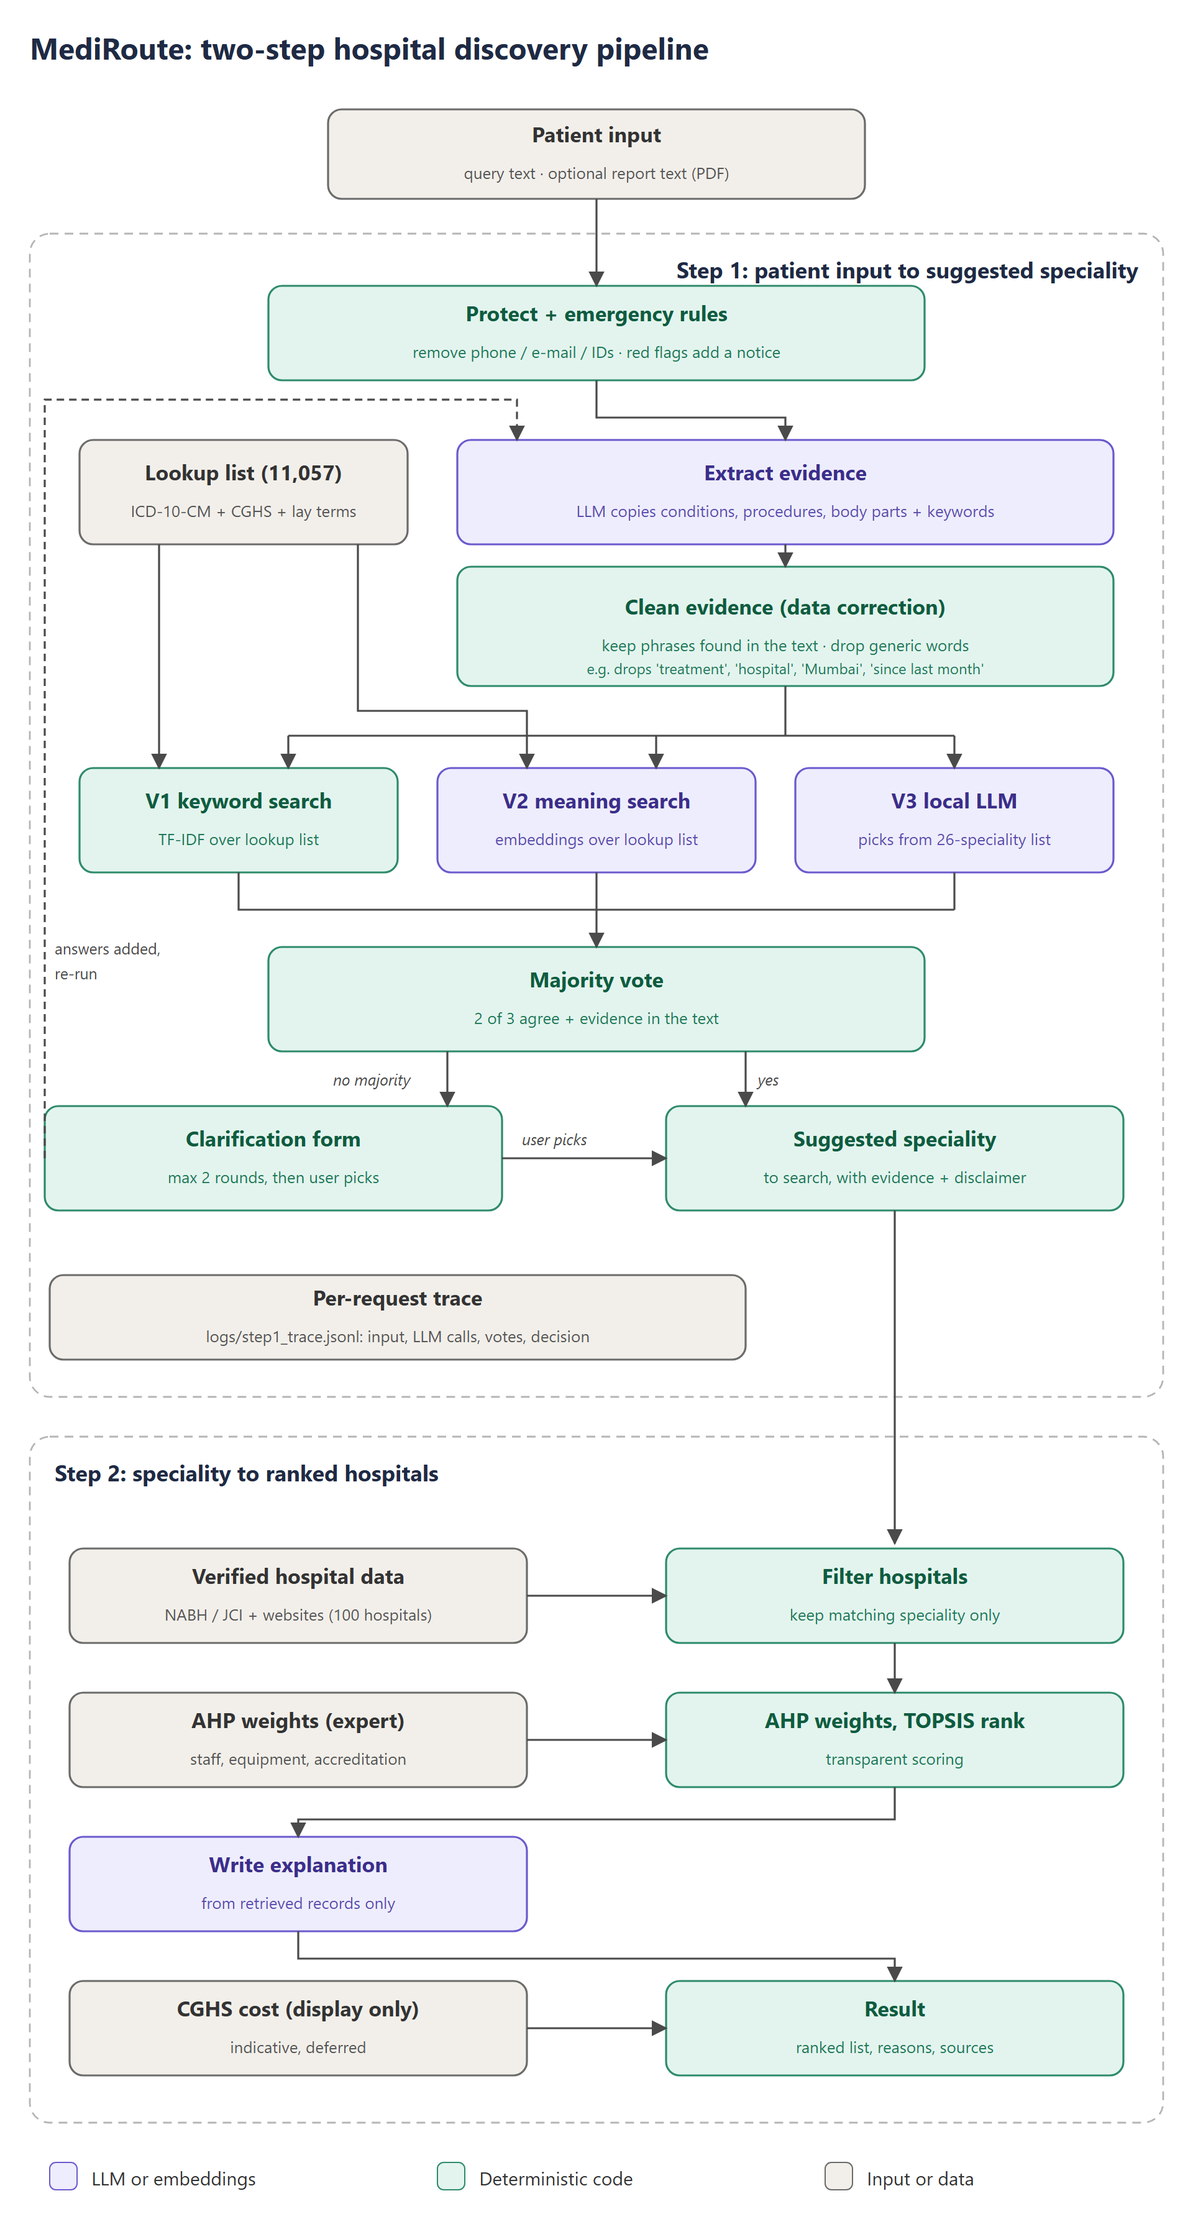
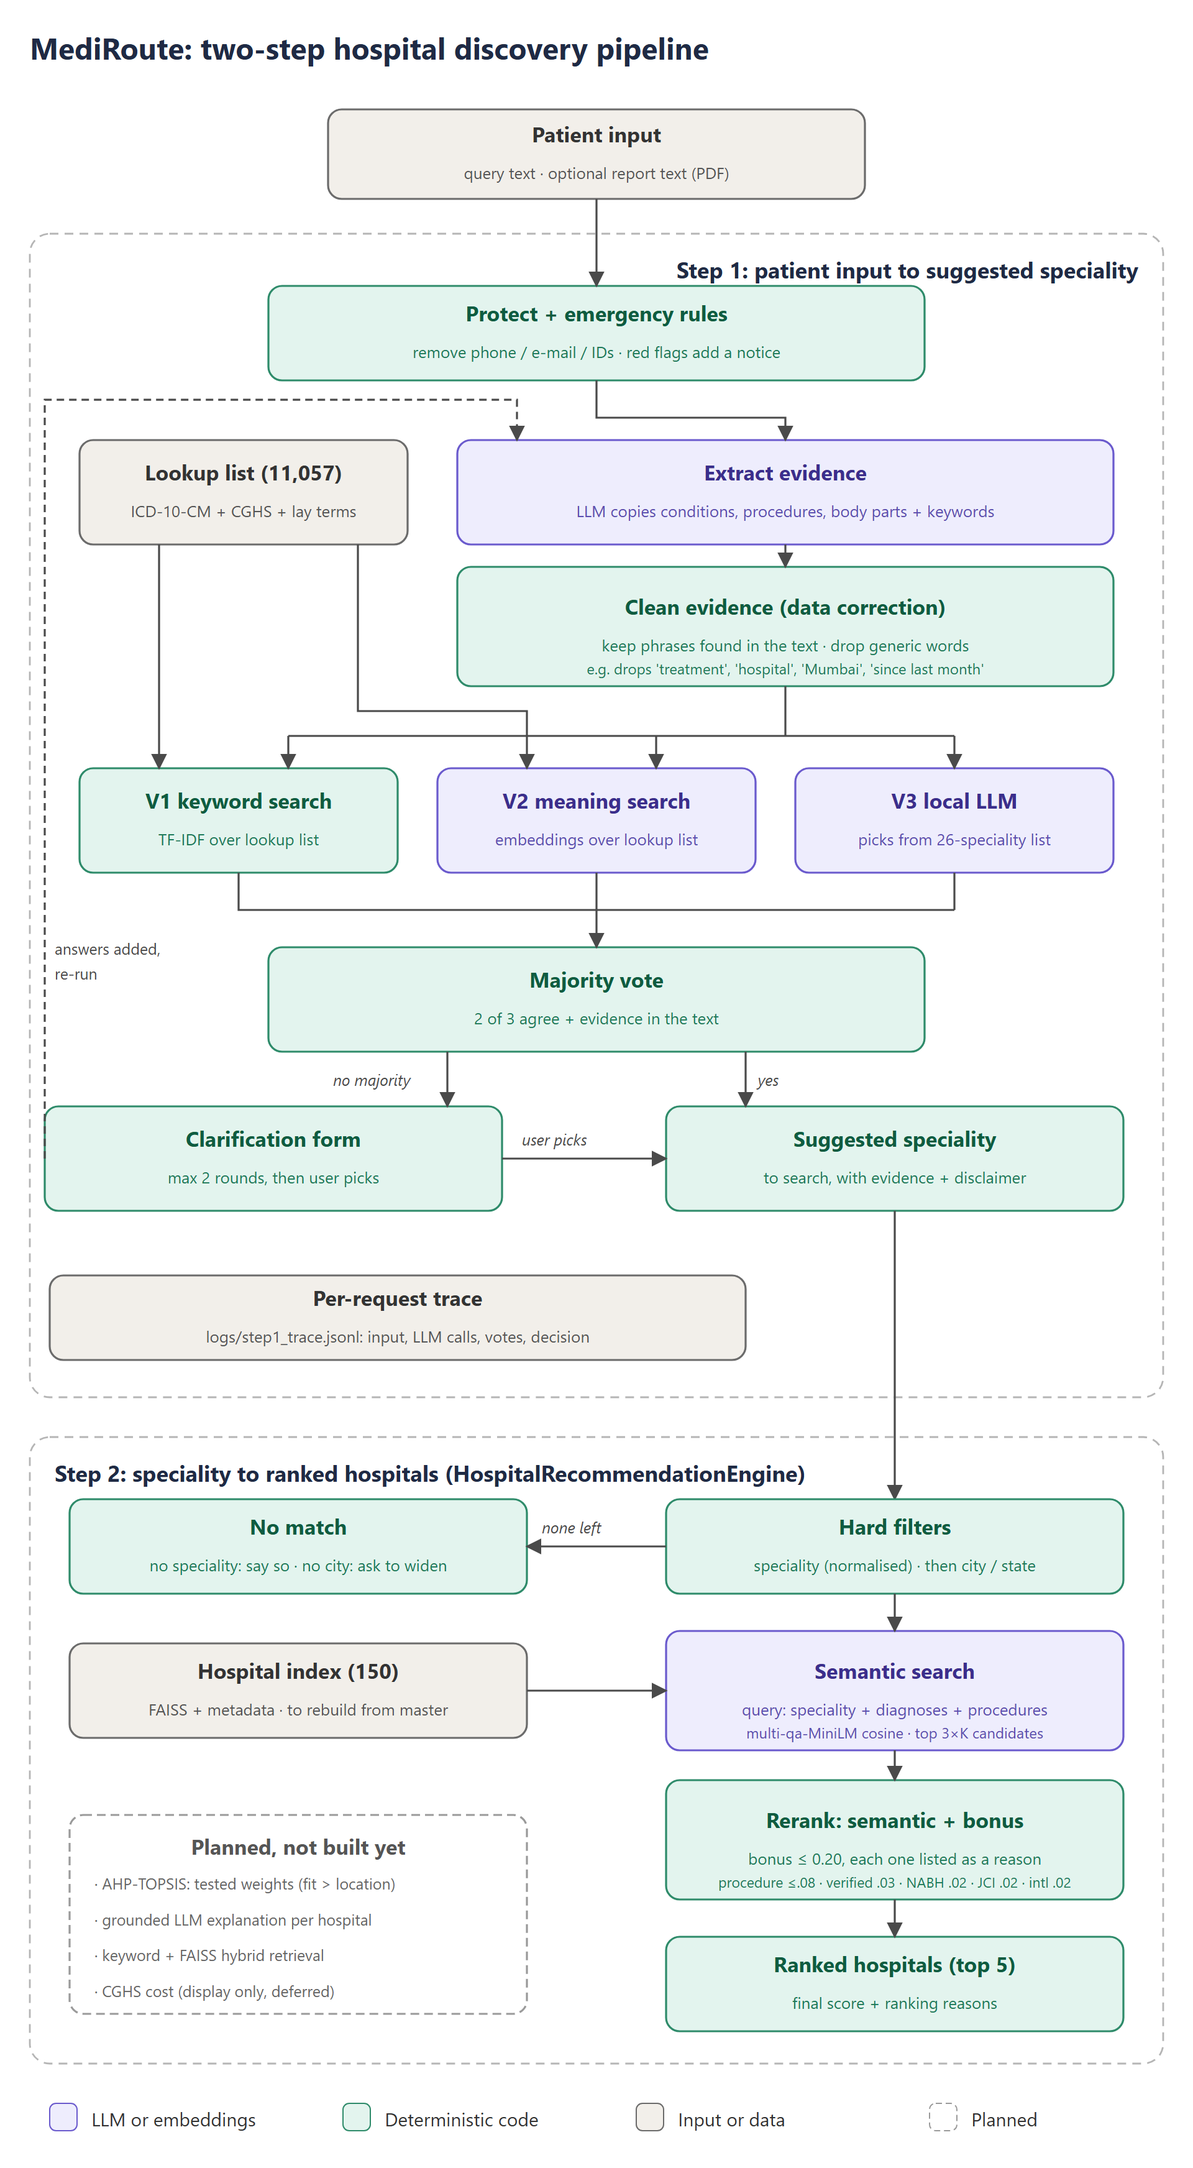
Architecture: draw Step 2 as built; update progress and tracker
- Diagram Step 2 now shows what HospitalRecommendationEngine runs: hard
  filters (speciality, city/state, no-match exits) -> FAISS semantic search
  over the filtered hospitals (3xK) -> semantic + rule bonus (<= 0.20) ->
  top 5 with reasons. AHP-TOPSIS, grounded explanation, hybrid keyword
  retrieval and CGHS cost are drawn as planned (dashed).
- README Step 2 table matches the code, with known gaps.
- PROJECT_TRACKER: progress summary (10 Nov 2026); task states updated
  (keyword retriever not wired, interim reranker, 100-hospital master,
  gold sets, eval script still on old routes, admin page).

diff --git a/docs/architecture/make_architecture_diagram.py b/docs/architecture/make_architecture_diagram.py
@@ -14,12 +14,13 @@ from pathlib import Path
 
 HERE = Path(__file__).resolve().parent
 U = 80  # pixels per layout unit
-W, H = 12.0, 22.5
+W, H = 12.0, 21.8
 
 STYLE = {  # fill, border, title colour, subtitle colour
     "llm": ("#EEEDFD", "#6A5ACD", "#3B2E8C", "#5B4DB0"),
     "code": ("#E3F4EE", "#2E8B6A", "#0F5C40", "#1F7A58"),
     "data": ("#F2EFEA", "#6B6B6B", "#333333", "#555555"),
+    "planned": ("#FFFFFF", "#9A9A9A", "#555555", "#777777"),
 }
 parts: list[str] = []
 
@@ -32,8 +33,9 @@ def box(cx, cy, w, h, title, sub, kind):
     fill, edge, tcol, scol = STYLE[kind]
     x, y = cx - w / 2, cy - h / 2
     parts.append(f'<rect x="{px(x)}" y="{px(y)}" width="{px(w)}" height="{px(h)}" rx="11" '
-                 f'fill="{fill}" stroke="{edge}" stroke-width="1.6"/>')
-    ty = cy - 0.12 if sub else cy + 0.07
+                 f'fill="{fill}" stroke="{edge}" stroke-width="1.6"'
+                 + (' stroke-dasharray="7 4"' if kind == "planned" else "") + '/>')
+    ty = cy - 0.12 if sub else (cy - h / 2 + 0.4 if kind == "planned" else cy + 0.07)
     parts.append(f'<text x="{px(cx)}" y="{px(ty)}" text-anchor="middle" font-size="17" font-weight="700" '
                  f'fill="{tcol}">{escape(title)}</text>')
     if sub:
@@ -123,31 +125,48 @@ text(0.55, 9.85, "re-run", size=12.5, colour="#4A4A4A")
 
 box(4.0, 13.25, 7.0, 0.85, "Per-request trace", "logs/step1_trace.jsonl: input, LLM calls, votes, decision", "data")
 
-# ------------------------------------------------------------------ Step 2
-D = 1.3  # Step 2 moved down to make room for the cleaning step
-container(0.3, 13.15 + D, 11.7, 20.05 + D, "Step 2: speciality to ranked hospitals", anchor="start")
-arrow((9.0, 12.175), (9.0, 14.225 + D))
-box(3.0, 14.75 + D, 4.6, 0.95, "Verified hospital data", "NABH / JCI + websites (100 hospitals)", "data")
-box(9.0, 14.75 + D, 4.6, 0.95, "Filter hospitals", "keep matching speciality only", "code")
-arrow((5.3, 14.75 + D), (6.7, 14.75 + D))
-box(3.0, 16.2 + D, 4.6, 0.95, "AHP weights (expert)", "staff, equipment, accreditation", "data")
-box(9.0, 16.2 + D, 4.6, 0.95, "AHP weights, TOPSIS rank", "transparent scoring", "code")
-arrow((5.3, 16.2 + D), (6.7, 16.2 + D))
-arrow((9.0, 15.225 + D), (9.0, 15.725 + D))
-box(3.0, 17.65 + D, 4.6, 0.95, "Write explanation", "from retrieved records only", "llm")
-arrow((9.0, 16.675 + D), (9.0, 17.0 + D), (3.0, 17.0 + D), (3.0, 17.175 + D))
-box(3.0, 19.1 + D, 4.6, 0.95, "CGHS cost (display only)", "indicative, deferred", "data")
-box(9.0, 19.1 + D, 4.6, 0.95, "Result", "ranked list, reasons, sources", "code")
-arrow((3.0, 18.125 + D), (3.0, 18.4 + D), (9.0, 18.4 + D), (9.0, 18.625 + D))
-arrow((5.3, 19.1 + D), (6.7, 19.1 + D))
+# ------------------------------------------------------------------ Step 2 (as built: hospital_recommendation/engine.py)
+container(0.3, 14.45, 11.7, 20.75, "Step 2: speciality to ranked hospitals (HospitalRecommendationEngine)", anchor="start")
+arrow((9.0, 12.175), (9.0, 15.075))
+
+# R1: hard filters, with the two no-match exits
+box(9.0, 15.55, 4.6, 0.95, "Hard filters", "speciality (normalised) · then city / state", "code")
+box(3.0, 15.55, 4.6, 0.95, "No match", "no speciality: say so · no city: ask to widen", "code")
+arrow((6.7, 15.55), (5.3, 15.55), label="none left", label_at=(5.45, 15.42))
+
+# R2: semantic search over the filtered hospitals only
+box(3.0, 17.0, 4.6, 0.95, "Hospital index (150)", "FAISS + metadata · to rebuild from master", "data")
+box(9.0, 17.0, 4.6, 1.2, "Semantic search", "query: speciality + diagnoses + procedures", "llm")
+text(9.0, 17.48, "multi-qa-MiniLM cosine · top 3×K candidates", size=12, anchor="middle", colour="#5B4DB0")
+arrow((9.0, 16.025), (9.0, 16.4))
+arrow((5.3, 17.0), (6.7, 17.0))
+
+# R3: transparent rule bonus
+box(9.0, 18.5, 4.6, 1.2, "Rerank: semantic + bonus", "bonus ≤ 0.20, each one listed as a reason", "code")
+text(9.0, 18.98, "procedure ≤.08 · verified .03 · NABH .02 · JCI .02 · intl .02", size=11.5, anchor="middle",
+     colour="#1F7A58")
+arrow((9.0, 17.6), (9.0, 17.9))
+
+# R4: result
+box(9.0, 19.95, 4.6, 0.95, "Ranked hospitals (top 5)", "final score + ranking reasons", "code")
+arrow((9.0, 19.1), (9.0, 19.475))
+
+# planned, not built (TA: test weights, ground explanations)
+box(3.0, 19.25, 4.6, 2.0, "Planned, not built yet", "", "planned")
+for i, item in enumerate(["AHP-TOPSIS: tested weights (fit > location)",
+                          "grounded LLM explanation per hospital",
+                          "keyword + FAISS hybrid retrieval",
+                          "CGHS cost (display only, deferred)"]):
+    text(0.95, 19.0 + i * 0.36, "· " + item, size=12.5, colour="#666666")
 
 # ------------------------------------------------------------------ legend
 for i, (kind, label) in enumerate([("llm", "LLM or embeddings"), ("code", "Deterministic code"),
-                                   ("data", "Input or data")]):
+                                   ("data", "Input or data"), ("planned", "Planned")]):
     fill, edge, _, _ = STYLE[kind]
-    x = 0.5 + i * 3.9
-    parts.append(f'<rect x="{px(x)}" y="{px(20.45 + D)}" width="22" height="22" rx="5" fill="{fill}" stroke="{edge}"/>')
-    text(x + 0.42, 20.68 + D, label, size=15, colour="#333333")
+    x = 0.5 + i * 2.95
+    dash = ' stroke-dasharray="5 3"' if kind == "planned" else ""
+    parts.append(f'<rect x="{px(x)}" y="{px(21.15)}" width="22" height="22" rx="5" fill="{fill}" stroke="{edge}"{dash}/>')
+    text(x + 0.42, 21.38, label, size=15, colour="#333333")
 
 svg = (f'<svg xmlns="http://www.w3.org/2000/svg" width="{px(W)}" height="{px(H)}" viewBox="0 0 {px(W)} {px(H)}" '
        f'font-family="Inter, Segoe UI, Helvetica, Arial, sans-serif">'

diff --git a/docs/PROJECT_TRACKER.md b/docs/PROJECT_TRACKER.md
@@ -6,6 +6,19 @@ Priorities follow the TA mid-sem feedback and the capstone guidelines (see `docs
 narrow scope, a strong evaluation layer with baselines, and deployment with observability.
 Final review: **5 Dec 2026**. Owners are tentative.
 
+## Progress (10 Nov 2026)
+
+- **Step 1 is complete end to end:** voting pipeline (2 search voters + local LLM, majority + evidence),
+  clarification form, data-correction stage (generic words dropped, 473 lay terms), per-request trace
+  and an admin page. 59 tests pass; 12 Step 1 and 9 workflow API scenarios route as intended.
+- **Step 1 + Step 2 integrated** in the LangGraph workflow (`/api/patient-routing`).
+- **Step 2 runs** as filter → FAISS semantic search → rule-bonus rerank. AHP-TOPSIS, grounded
+  explanations and the hybrid keyword retriever are not built yet. It still uses the old 150-hospital
+  index, so 6 specialities have no hospitals.
+- **Data:** 100-hospital master verified against NABH, JCI and official websites (14 cities).
+- **Biggest gap vs the TA feedback: evaluation.** Gold sets exist (Step 1), but no metrics have been
+  run on the voting pipeline, no baselines, no hospital-relevance labels, no Step 2 metrics.
+
 | # | Task | What needs to be done | Owner | State |
 |---|------|-----------------------|-------|-------|
 | **Step 0: Team alignment (do this first, before starting any task below)** | | | | |
@@ -16,36 +29,36 @@ Final review: **5 Dec 2026**. Owners are tentative.
 | 3 | Specialty routing pipeline | Done: `MEDIROUTE_ROUTING_MODE` = vote (default) / rules / llm / hybrid; router built once at startup with warm-up | Pravin | Done |
 | 4 | Fix zero-shot overriding the rule result | Done: zero-shot removed from the live path; `test_blurry_vision_maps_to_ophthalmology` passes | Pravin | Done |
 | 5 | Validate the LLM's answer | Done: V3 is constrained to the speciality list (JSON-schema enum) and code rejects other names | Pravin | Done |
-| 6 | Extract condition with an LLM | Done as evidence extraction: LLM copies conditions, procedures, body parts; code keeps only phrases found in the text | Pravin | Done |
-| 7 | Map to ICD-10 | Partly: ICD-10-CM 2026 (9,314 categories) + CGHS procedures mapped to specialities in the Step 1 lookup list (draft tables, doctor review pending) | Pravin | In progress |
+| 6 | Extract condition with an LLM | Done as evidence extraction: LLM copies conditions, procedures, body parts. **Data correction:** code keeps only phrases found in the text and drops generic words (treatment, hospital, city, time) | Pravin | Done |
+| 7 | Map to ICD-10 | Partly: lookup list of 11,057 entries = ICD-10-CM 2026 (9,314 categories) + CGHS procedures (1,270) + patient lay terms (473), mapped to specialities by draft tables (doctor review pending) | Pravin | In progress |
 | 8 | Validate, else ask the user | Done: majority + evidence, else clarification form (2 rounds), then user picks; `decision` in the response | Pravin | Done |
 | 9 | One shared specialty list | Done: `data/medical_taxonomy/specialties.csv` + `common/specialties.py`, used by Step 1 | Pravin | Done |
 | **Step 2: Specialty → Ranked hospitals** | | | | |
 | 10 | Filter hospitals by specialty and location | Done: `specialty_filter.py`, filtered FAISS | Shubham | Done |
-| 11 | Hybrid retrieval (FAISS + keyword) | Done: FAISS index + TF-IDF keyword retriever | Shubham | Done |
-| 12 | AHP-TOPSIS ranking | Define criteria (specialty match, accreditation, facilities, location), derive AHP weights, implement TOPSIS in `ranking/`. Medical fit must outweigh location | Shubham | Not started |
-| 13 | Grounded LLM explanation | For each top hospital, generate a 2–3 line reason using only fields from the retrieved record. No invented facts; cite the fields used | Shubham | Not started |
+| 11 | Hybrid retrieval (FAISS + keyword) | FAISS semantic search over the filtered hospitals is live. `keyword_retriever.py` (TF-IDF) is built but **not called by the engine**, so retrieval is not hybrid yet | Shubham | In progress |
+| 12 | AHP-TOPSIS ranking | Interim: semantic score + fixed rule bonus (≤ 0.20: procedure, verified, NABH, JCI, international) in `ranking/hospital_reranker.py`. Still to do: define criteria, derive AHP weights, TOPSIS, and test the weights (medical fit must outweigh location) | Shubham | In progress |
+| 13 | Grounded LLM explanation | Not built: results show rule-based `ranking_reasons` only. For each top hospital, generate a 2–3 line reason using only fields from the retrieved record; cite the fields used | Shubham | Not started |
 | 14 | Connect Step 1 to Step 2 end to end | Done: `/api/patient-routing` workflow passes Step 1's speciality and evidence to the Step 2 engine; results page shows ranked hospitals (see docs/design/step1_step2_integration.md) | Shubham | Done |
 | **Data** | | | | |
-| 15 | 150-hospital dataset + FAISS index | Done. Rebuild the index when the new master data is final | Anand, Ravi | Done |
+| 15 | 150-hospital dataset + FAISS index | 150-hospital dataset + FAISS index in use. **Rebuild the index from the 100-hospital master** (`data/processed/master-hospital-data.csv`); add eye, ENT, skin, mental-health and O&G hospitals (0 today) | Anand, Ravi | In progress |
 | 16 | Specialty vocabulary + ICD-10 mapping | Done for v1. Extend with task 7 and task 9 | Anand, Ravi | Done |
-| 17 | JCI / NABH accreditation scraping | Finish the remaining target cities and save outputs in `data/interim/` | Anand, Ravi | In progress |
-| 18 | Verified hospital-specialty data | Verify each hospital's specialties from its official website. Add `source` and `is_synthetic` columns, and merge into the master dataset | Anand, Ravi | In progress |
+| 17 | JCI / NABH accreditation scraping | Done for 100 hospitals in 14 cities: NABH certificate, JCI listing and official website checked per hospital (`data/interim/master/`) | Anand, Ravi | Done |
+| 18 | Verified hospital-specialty data | 100 hospitals in `master-hospital-data.csv` with `source`, `verification_status` and `evidence_quality_score`. Still to do: merge into the Step 2 index (task 15) | Anand, Ravi | In progress |
 | **Evaluation (TA: critical)** | | | | |
-| 19 | Gold query set | 50+ patient queries (clear, vague, misspelled, multi-symptom) with the expected specialty. Get it reviewed by a doctor if possible | Anand, Ravi | Not started |
+| 19 | Gold query set | 50 core queries in `step1_gold_core50.csv` (diagnosis, report, procedure-only, noisy, vague, CGHS gap, emergency, paediatric; with critical details) + 84 MediRoute + 212 Gretel queries. **Doctor review pending** (`step1_gold_core50_REVIEW.md`) | Anand, Ravi | In progress |
 | 20 | Hospital-relevance labels | For each gold query, grade the candidate hospitals 0–3 for relevance. This is needed for NDCG | Anand, Ravi | Not started |
 | 21 | Baselines | Implement 3 baselines for comparison: keyword search, rule-based specialty mapping, and specialty filter only | Anand, Ravi | Not started |
-| 22 | Step 1 evaluation | Script reports specialty accuracy and top-3 accuracy for each router mode vs the rule baseline on the gold set | Anand, Ravi | Not started |
+| 22 | Step 1 evaluation | `scripts/eval_step1.py` exists but evaluates the old rules / llm / hybrid routes. Update it for the voting pipeline: accuracy, top-3, clarification rate, per-voter accuracy, vs the rule baseline | Anand, Ravi | Not started |
 | 23 | Step 2 evaluation | Script reports Precision@K, Recall@K and NDCG@K (K = 3, 5) for our pipeline vs the baselines | Anand, Ravi | Not started |
 | 24 | Report-extraction evaluation | 20+ synthetic reports with expected fields. Measure extraction accuracy and how many critical details are missed | Anand, Ravi | Not started |
 | 25 | Robustness experiments | Re-run evaluation with different ranking weights, incomplete queries and noisy reports. Record results in the experiments log | Anand, Ravi | Not started |
 | 26 | LLM-as-judge | Use a different LLM to score explanation faithfulness and hallucination rate | Anand, Ravi | Not started |
-| 27 | Latency and cost | Measure p50/p95 latency per step and LLM cost per query, and report them in the evaluation results | Anand, Ravi | Not started |
+| 27 | Latency and cost | Per-request timings are already in `logs/step1_trace.jsonl` (each LLM call, each voter). Still to do: p50/p95 per step and cost per query in the evaluation report | Anand, Ravi | Not started |
 | **Deployment** | | | | |
-| 28 | Unit and pipeline tests | Keep `pytest` green and add tests for new modules. One test fails today (task 4) | Aniket | In progress |
+| 28 | Unit and pipeline tests | 59 tests pass (Step 1 pipeline, workflow graph, Step 2). Add tests for new modules | Aniket | In progress |
 | 29 | Docker | Dockerfile for the API and docker-compose (API + frontend + Ollama), with a one-command start | Aniket | Not started |
 | 30 | CI | GitHub Actions running ruff + pytest on push, with an optional eval gate (accuracy must not drop) | Aniket | Not started |
-| 31 | Observability dashboard | Log latency, cost and errors per pipeline step. Show them on a dashboard (Grafana or a simple Streamlit page) | Aniket | Not started |
+| 31 | Observability dashboard | Partly: admin page (`frontend/admin.html`) shows each request's input, votes, LLM calls with timings, and the served output, from the trace log. Still to do: latency / error charts, auth | Aniket | In progress |
 | 32 | LangGraph orchestration | Done: Shubham's graph ported to `backend/workflow/`, medical step replaced by the Step 1 pipeline | Aniket | Done |
 | **Frontend** | | | | |
 | 33 | Patient input page | Done: query + report upload | Shubham | Done |

diff --git a/README.md b/README.md
@@ -97,12 +97,21 @@ with `python scripts/api_smoke_workflow.py`.
 
 ### Step 2: Specialty to ranked hospitals
 
+What runs today (`hospital_recommendation/engine.py`, built by Shubham). Dashed boxes in the
+diagram are planned, not built.
+
 | # | Stage | What it does | Type |
 |---|-------|--------------|------|
-| 2.1 | **Filter hospitals** | Keep only NABH hospitals offering the required specialty, near the preferred location | Code |
-| 2.2 | **AHP weights + TOPSIS rank** | Score hospitals on expert-weighted criteria (staff, equipment, accreditation) | Code |
-| 2.3 | **Write explanation** | Explain the ranking using **only** the retrieved records (grounded RAG) | LLM |
-| 2.4 | **Result, translation, PDF** | Ranked list with CGHS cost (display only), sources, translation and a PDF export | Code |
+| 2.1 | **Hard filters** | Keep hospitals whose verified specialities include Step 1's speciality (names normalised by `specialty_normalization.csv`), then the preferred city / state. None left: say no hospital has the speciality yet, or ask whether to search other cities | Code |
+| 2.2 | **Semantic search** | Query = speciality + diagnoses + procedures + findings from Step 1. Cosine search (`multi-qa-MiniLM-L6-cos-v1`, FAISS) over the filtered hospitals only, keeping 3×K candidates | Embeddings |
+| 2.3 | **Rerank: semantic + bonus** | Final score = semantic score + a rule bonus capped at 0.20: matched procedure up to 0.08, verified 0.03, NABH 0.02, JCI 0.02, international patient services 0.02, evidence quality up to 0.03. Each bonus is shown as a ranking reason | Code |
+| 2.4 | **Result** | Top 5 hospitals with final score and reasons | Code |
+
+Known gaps: the index is the older 150-hospital dataset (no Ophthalmology, ENT, Dermatology,
+Psychiatry, General Medicine or O&G hospitals), not the verified 100-hospital master; the keyword
+retriever exists but is not used; the bonus weights are fixed, not tested. Planned: AHP-TOPSIS
+with tested weights (medical fit above location, per the TA), grounded LLM explanation per
+hospital, CGHS cost for display only.
 
 ### Design choice: rules vs LLM
 
